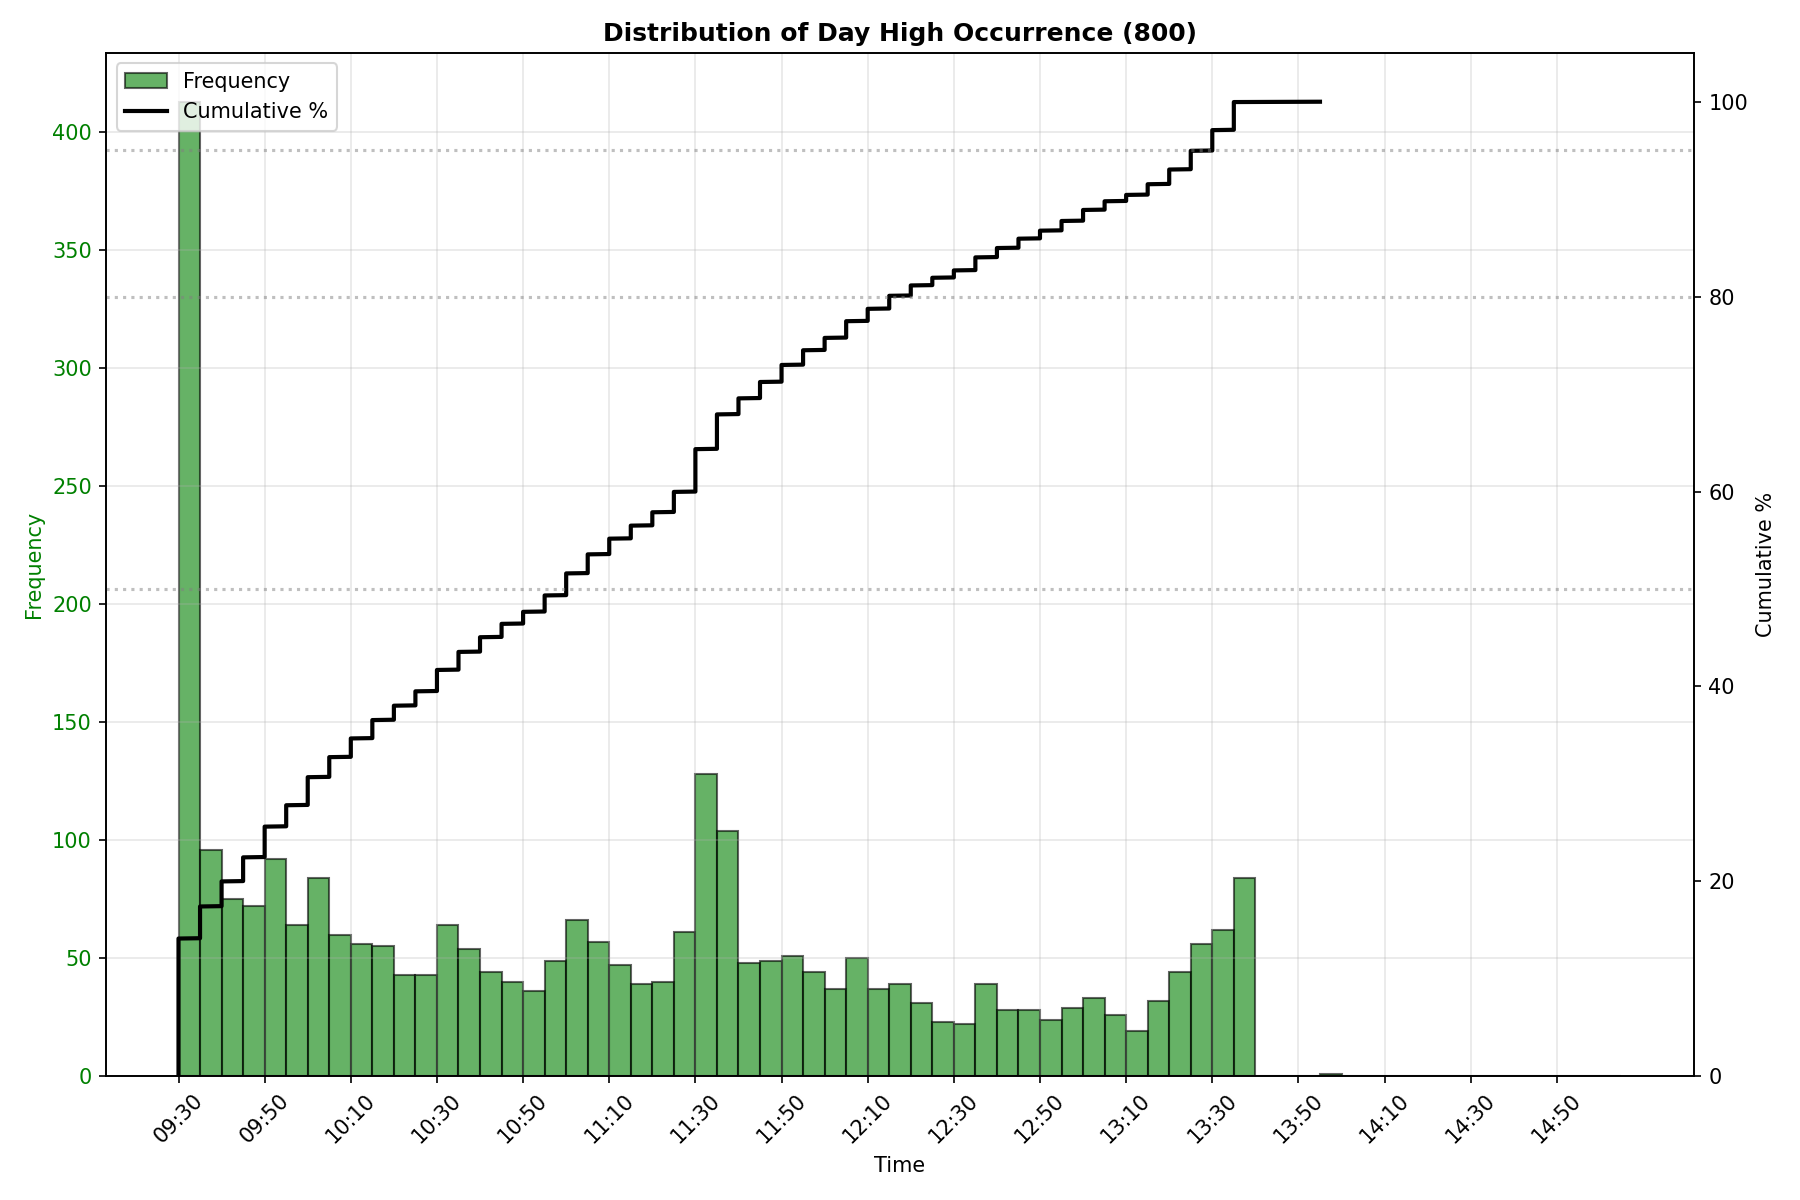
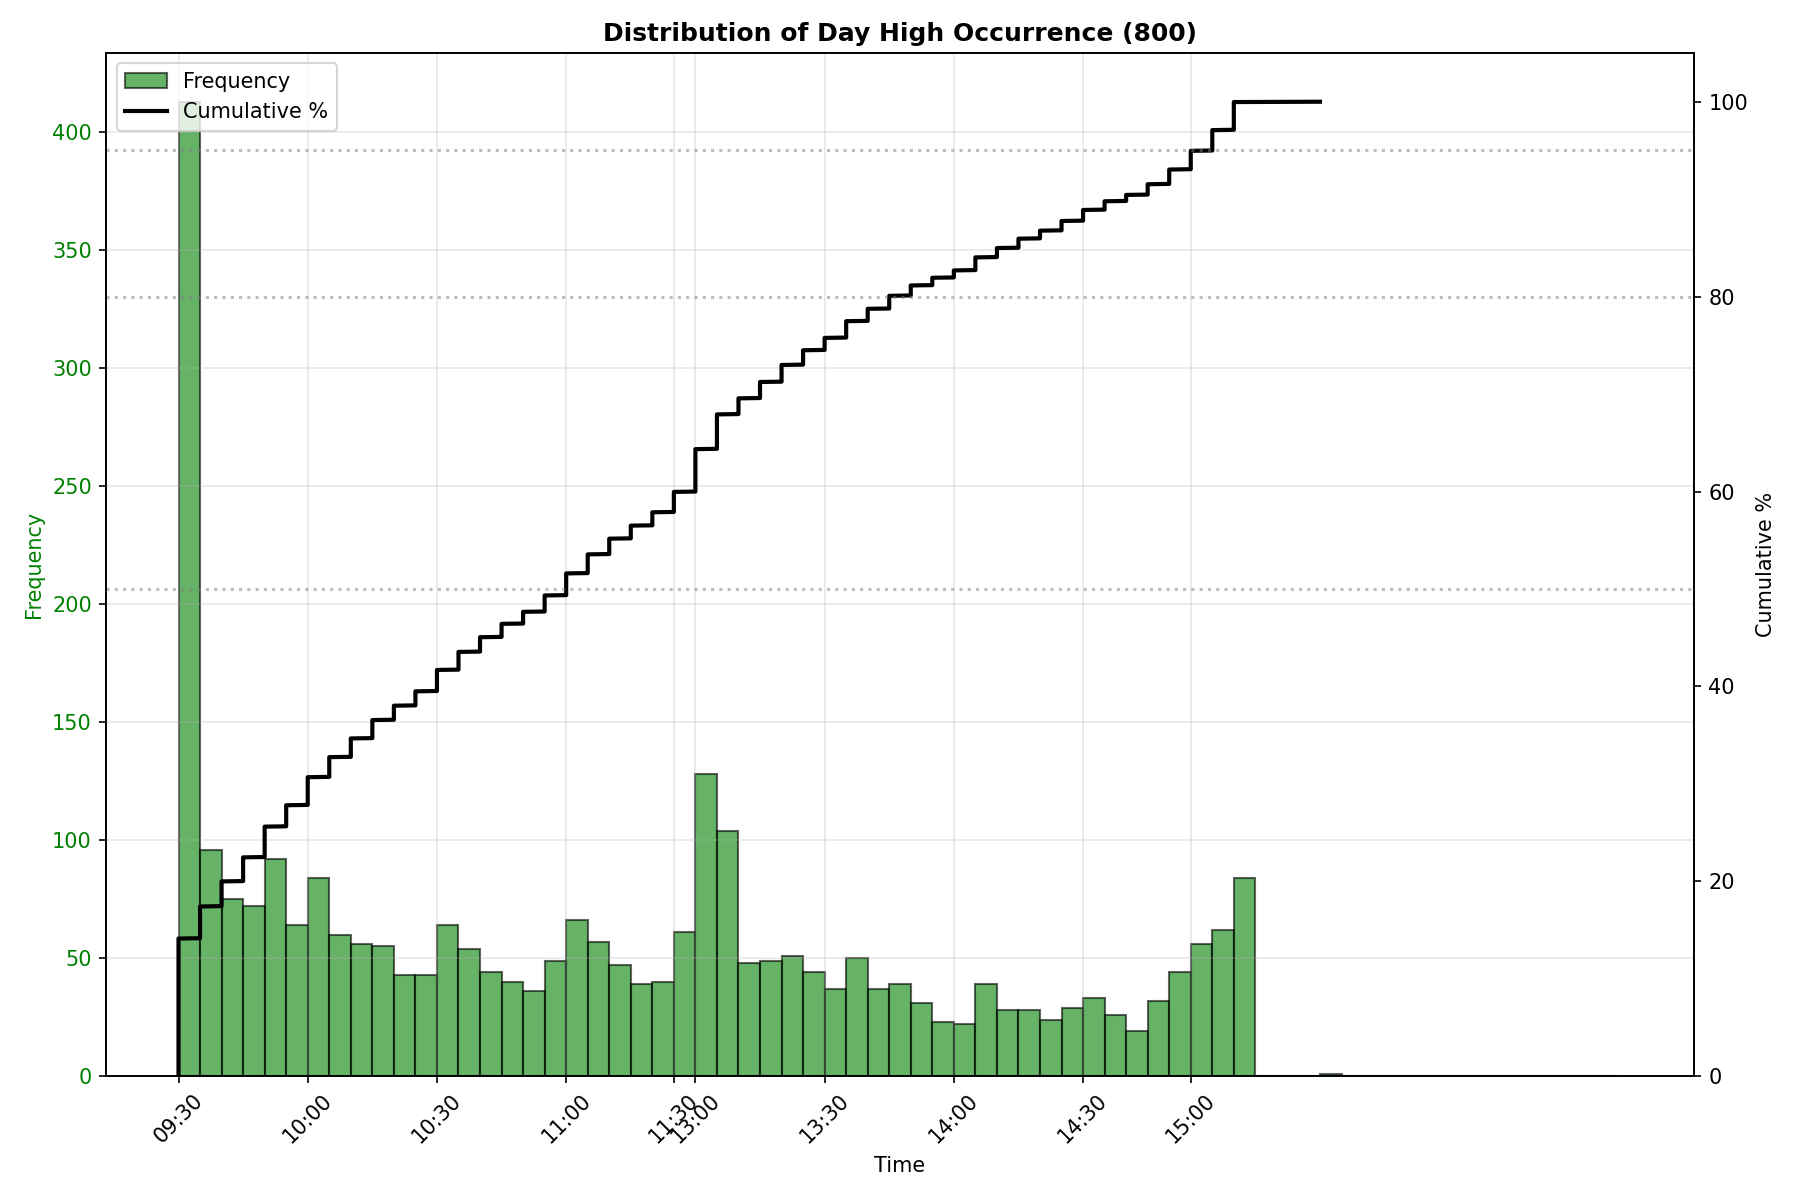
Process

diff --git a/generate_800_stats.py b/generate_800_stats.py
@@ -101,17 +101,8 @@ def plot_histogram_with_cdf(data, bins, range_min, range_max, color, title, xlab
                            edgecolor='black', alpha=0.6, color=color, label='Frequency')
     
     if is_time:
-        # Create time labels for the x-axis
-        # Standard day trading session is 9:30 to 16:00 (1-78 bars)
-        # Let's map bar numbers to time
-        ticks = []
-        labels = []
-        for i in range(1, int(range_max), max(1, int(range_max//15))):
-            ticks.append(i)
-            minute_of_day = 9 * 60 + 30 + (i - 1) * 5
-            hour = minute_of_day // 60
-            minute = minute_of_day % 60
-            labels.append(f"{hour:02d}:{minute:02d}")
+        ticks = [1, 7, 13, 19, 24, 25, 31, 37, 43, 48]
+        labels = ["09:30", "10:00", "10:30", "11:00", "11:30", "13:00", "13:30", "14:00", "14:30", "15:00"]
         ax1.set_xticks(ticks)
         ax1.set_xticklabels(labels, rotation=45)
         ax1.set_xlabel("Time")
@@ -184,14 +175,8 @@ def plot_results(results, daily_stats_df, df, out_dir):
     ax1.grid(alpha=0.3)
 
     # Create time labels for the x-axis
-    ticks = []
-    labels = []
-    for i in range(1, int(max_bars+1), max(1, int((max_bars+1)//15))):
-        ticks.append(i)
-        minute_of_day = 9 * 60 + 30 + (i - 1) * 5
-        hour = minute_of_day // 60
-        minute = minute_of_day % 60
-        labels.append(f"{hour:02d}:{minute:02d}")
+    ticks = [1, 7, 13, 19, 24, 25, 31, 37, 43, 48]
+    labels = ["09:30", "10:00", "10:30", "11:00", "11:30", "13:00", "13:30", "14:00", "14:30", "15:00"]
     ax1.set_xticks(ticks)
     ax1.set_xticklabels(labels, rotation=45)
     ax1.set_xlabel("Time")
@@ -296,9 +281,10 @@ def plot_results(results, daily_stats_df, df, out_dir):
     
     # 9. Time-based High/Low Buckets
     plt.figure(figsize=(10, 6))
-    bucket_labels = ['Morning\n(1-12)', 'Mid-Morn\n(13-24)', 'Midday\n(25-48)', 
-                     'Afternoon\n(49-66)', 'Last Hour\n(67+)']
-    bucket_ranges = [(1, 12), (13, 24), (25, 48), (49, 66), (67, 100)]
+    bucket_labels = ['9:30\n10:00', '10:00\n10:30', '10:30\n11:00', '11:00\n11:30', 
+                     '13:00\n13:30', '13:30\n14:00', '14:00\n14:30', '14:30\n15:00']
+    bucket_ranges = [(1, 6), (7, 12), (13, 18), (19, 24), 
+                     (25, 30), (31, 36), (37, 42), (43, 48)]
     
     high_buckets = [len([b for b in high_bars if r[0] <= b <= r[1]]) for r in bucket_ranges]
     low_buckets = [len([b for b in low_bars if r[0] <= b <= r[1]]) for r in bucket_ranges]
